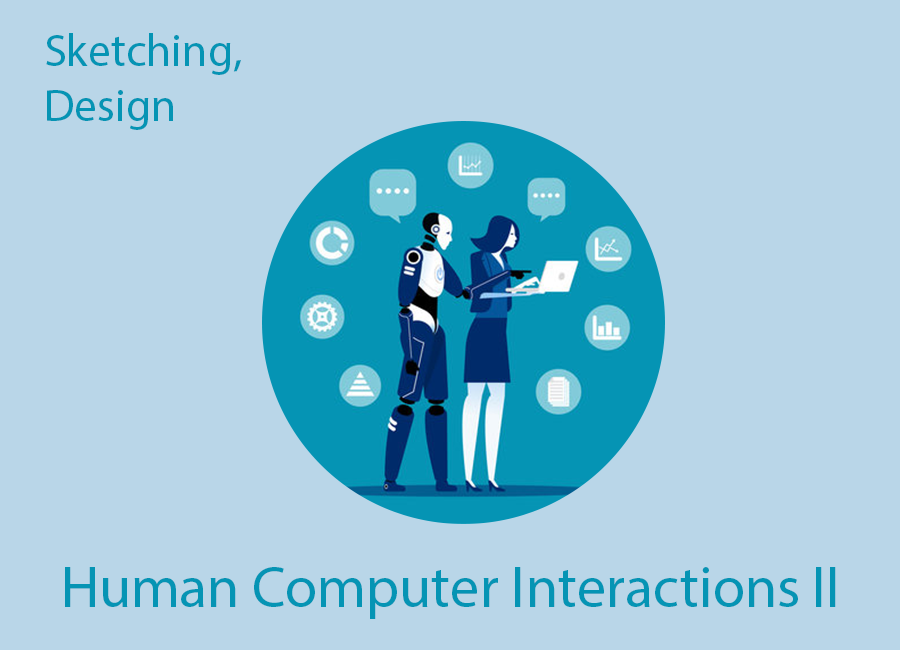
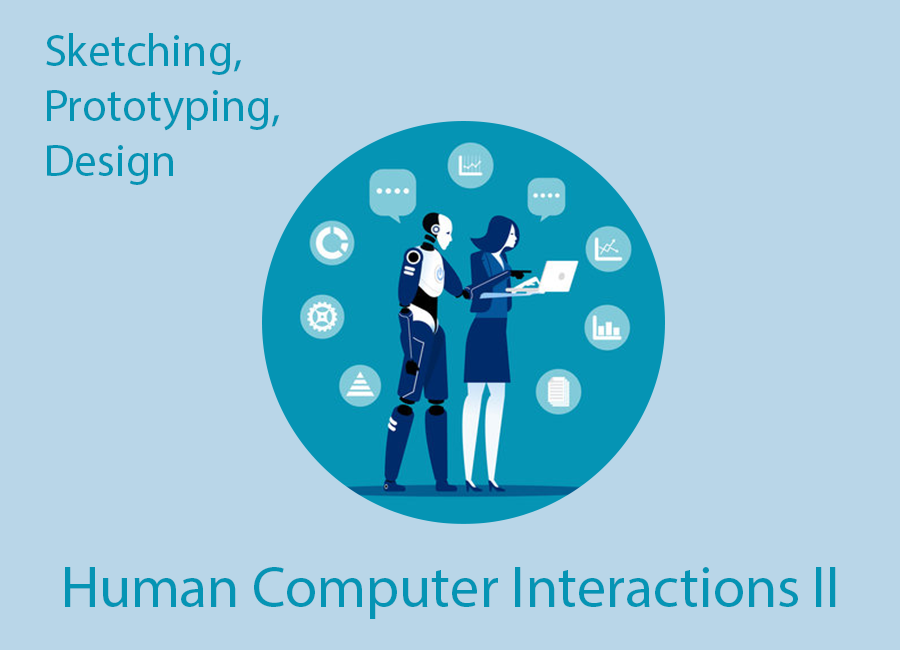
new projects

Changed region(s): [[0.0311, 0.1231, 0.3111, 0.2769]]

diff --git a/src/About.js b/src/About.js
@@ -37,16 +37,16 @@ class About extends React.Component {
                               </MDBCol>
                               <Media.Body className="text-black text-center col-md-8 align-self-center" style={{ padding: "5% 5%",fontSize: "1.2rem" }}>
                                     <h1 style={{fontSize: "3rem", fontFamily: "'Gentium Book Basic', serif"}}>
-                                          Computer Science student - University of Calgary
+                                          BSC: Computer Science Graduate - University of Calgary
                                     </h1>
                                     <p>
-                                Welcome! My name is Shaina. I am a graduating student with 1yr internship experience as a software developer. 
-                                That experience helped me realize what my next step in my career path is. I want to be a full stack developer! I am driven to learn new things and are open to new ideas and tasks.
+                                Welcome! My name is Shaina. I did my undergrad as a computer science major at the University of Calgary with 1yr internship experience as a software developer.
+                                That experience has helped me explore what my strengths are and also introduced me to the world of data analysis.
+                                My strengths are not only in my analytical and problem-solving skills but also in my design and creative thinking skills.
+                                I am driven to learn new things and are open to new ideas and tasks.
                                           My attention to detail and persistence to get the job done has also contributed to my success in academia. 
-                                          Throughout my experience in UofC as a computer science student, I have learned to work as a team, 
-                                          increased my technical skills, created software such as a scholarship system, designed a tutoring app and overall 
-                                          expand my communication skills. I am looking to gain experience, expand my connections and meet new people. 
-                                          I am most excited on being able to apply my creative ideas and technical skills I have learned into creating and advancing our technology!
+                                          I am looking to gain experience, expand my connections and meet new people. 
+                                          Overall, I am most excited on being able to apply my creative ideas and technical skills I have learned into creating and advancing our technology! Outside of this, I enjoy video games, learning the piano, and reading fictional books.
                                           </p>
                                     <p>
                                           <a href={require("./img/ShainaR_Resume.pdf")} target="_blank " rel="noopener noreferrer">

diff --git a/src/Courses.js b/src/Courses.js
@@ -17,11 +17,14 @@ function Courses() {
 
 
       const courseList = [
+            { name: "Visualization and Analytics", link: "https://contacts.ucalgary.ca/info/cpsc/courses/w22/CPSC599.87?destination=courses"},
+            { name: "Introduction to InfoVisualization", link: "https://contacts.ucalgary.ca/info/cpsc/courses/f21/CPSC583?destination=courses%2Ff21"},
+            { name: "Introduction to Computer Graphics", link: "https://contacts.ucalgary.ca/info/cpsc/courses/f21/CPSC453?destination=courses%2Ff21"},
             {     name: "Computer Networks",                                  link: "http://contacts.ucalgary.ca/info/cpsc/courses/w20/CPSC441?destination=courses%2Fw20"},
             {     name: "Data Base Management Systems",                       link: "http://contacts.ucalgary.ca/info/cpsc/courses/w19/CPSC471?destination=courses%2Fw20"},
             {     name: "Data Structures, Algorithms and Their Analysis",     link: "http://contacts.ucalgary.ca/info/cpsc/courses/f18/CPSC331?destination=courses%2Ff18"},
             {     name: "Design and Analysis of Algorithms I",                link: "http://contacts.ucalgary.ca/info/cpsc/courses/f19/CPSC413?destination=courses%2Ff19"},
-            {     name: "Human-Computer Interaction I",                       link: "http://contacts.ucalgary.ca/info/cpsc/courses/f19/CPSC481?destination=courses%2Ff19"},
+            { name: "Human-Computer Interaction I & II", link: "https://contacts.ucalgary.ca/info/cpsc/courses/f21/CPSC581?destination=courses%2Ff21"},
             {     name: "Principles of Operating Systems",                    link: "http://contacts.ucalgary.ca/info/cpsc/courses/w20/CPSC457?destination=courses%2Fw20"},
             {     name: "Introduction to Computability",                      link: "http://contacts.ucalgary.ca/info/cpsc/courses/w19/CPSC313?destination=courses%2Fw19"},
             {     name: "Computing Machinery II",                             link: "http://contacts.ucalgary.ca/info/cpsc/courses/w19/CPSC359?destination=courses%2Fw19"},
@@ -30,7 +33,7 @@ function Courses() {
 
       const coursesStyle = {
             fontSize:"1.5rem",
-            maxWidth: 900
+            maxWidth: 1200
       }
       let courses = []
       if (window.innerWidth > 550) {

diff --git a/src/data/PortfolioData.js b/src/data/PortfolioData.js
@@ -17,8 +17,28 @@ const modalList =  {
 }
 
 
+/*
+ * @id - the page to call when its card is clicked (page imported above with the name added to modalList)
+ *          can also be set to a web link if you want it to redirect to link instead of opening a modal page
+ * @name - name displayed at the top of the modal page
+ * 
+ * 
+ * */
+
 // order of appearance in the list reflects in the website
 const PortfolioCardsList = [
+    {
+        id: "https://shainamr.notion.site/CPSC-599-87-Data-Story-Project-Spotify-Top-2000-songs-1815437c4ef74251b3a7c0040156c364",
+        name: "Data Story",
+        img: "./img/portfolio/DataStory.png",
+        text: `My data story on "the top 2000 songs of spotify" dataset from kaggle. This was a final project for a data analysis course taken at University of Calgary`
+    },
+    {
+        id: 4,
+        name: "Human Computer Interactions II",
+        img: "./img/portfolio/HCI II.png",
+        text: `Multiple projects including web/mobile applications, Augmented reality, Physical Prototyping with Arduino, and a Web App using WebSockets. Creaated while taking the course Human Computer Interactions II F2021 at the University of Calgary. `
+    },
       {
             id:   0,
             name: "Application Programming Interface (API)",
@@ -50,13 +70,9 @@ const PortfolioCardsList = [
             img: "./img/portfolio/Other Projects.png",
             text: `A program that provides simple "micro-services" for word manipulation, and then dynamically compose them in different ways to achieve 
             some different desired data representations...`
-    },
-    {
-            id: 4,
-            name: "Human Computer Interactions II",
-            img: "./img/portfolio/HCI II.png",
-            text: `Projects done while taking the course Human Computer Interactions II F2021`
-      }
+    }
+
+
 ]
 
 

diff --git a/src/App.js b/src/App.js
@@ -20,7 +20,12 @@ function App() {
 	const [modalContent, setModalContent] = useState(()=>{})
 	const [modalProjectName, setModalProjectName] = useState("")
 
-      function toggleModal(projectKey, projectName) {
+	function toggleModal(projectKey, projectName) {
+		// if card is to redirect to a page instead of its own modal
+		if (typeof projectKey === 'string' && projectKey.includes('http')) {
+			window.open(projectKey)
+			return
+        }
 		// make modal visible and determine what content to show depending on what
 		// portfolio card was clicked using its projectKey
 		setModalVisibility((prevVal => !prevVal))
